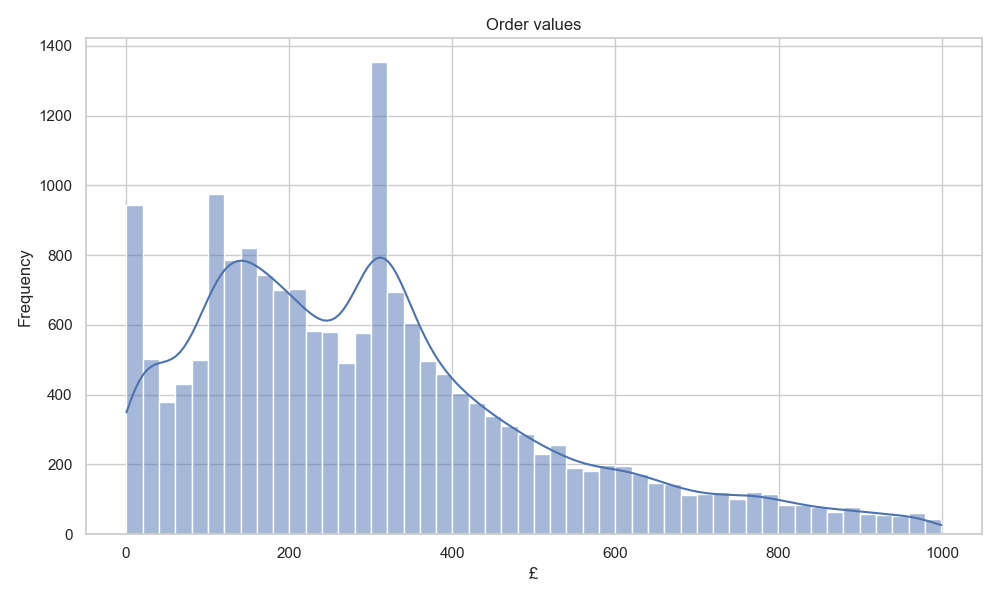
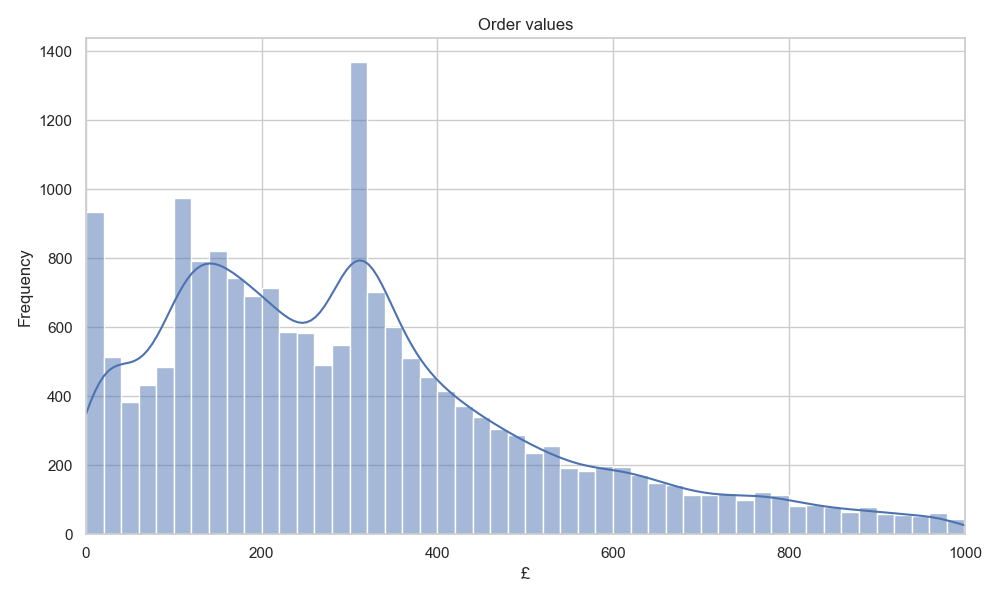
Modified script 'modeling.py'. Generated 'average_sale.png', product_per_order.png' and 'sale_per_client.png' of it. Modivied 'README.md' - added newly created files.

Changed region(s): [[0.031, 0.03, 0.992, 0.93], [0.775, 0.63, 0.806, 0.69], [0.589, 0.63, 0.62, 0.69]]

diff --git a/scripts/modeling.py b/scripts/modeling.py
@@ -1,6 +1,7 @@
 import pandas as pd
 import matplotlib.pyplot as plt
 import seaborn as sns
+import numpy as np
 
 sns.set(style = "whitegrid")
 
@@ -13,17 +14,18 @@ df = pd.read_csv(url, encoding = "ISO-8859-1", dtype = {"InvoiceNo" : str})
 """Data modeling."""
 # Visualisation of average order price - removing outliers.
 df["TotalPrice"] = df["Quantity"] * df["UnitPrice"]
+df["InvoiceDate"] = pd.to_datetime(df["InvoiceDate"], errors = "coerce")
 order_values = df.groupby("InvoiceNo")["TotalPrice"].sum()
 order_values = order_values[order_values < 1000]
-order_values = order_values[order_values > 1]
 # print(order_values.describe())
 
-# plt.figure(figsize = (10,6))
-# sns.histplot(order_values, bins = 50, kde = True)
-# plt.title("Order values")
-# plt.xlabel("£")
-# plt.ylabel("Frequency")
-# plt.tight_layout()
+plt.figure(figsize = (10,6))
+sns.histplot(order_values, bins = 50, kde = True)
+plt.title("Order values")
+plt.xlabel("£")
+plt.ylabel("Frequency")
+plt.xlim(0,1000)
+plt.tight_layout()
 # plt.savefig("https://github.com/Wrobelax/sales_analysis.git/outputs/average_sale.png") # Saving results to file
 
 
@@ -34,7 +36,6 @@ top_clients = client_values.sort_values(ascending = False).head(10)
 customer_total = df.groupby("CustomerID")["TotalPrice"].sum()
 customer_orders = df.groupby("CustomerID")["InvoiceNo"].nunique()
 avg_basket_val = customer_total / customer_orders
-avg_basket_val = avg_basket_val[avg_basket_val > 1]
 avg_basket_val = avg_basket_val[avg_basket_val < 1000]
 
 plt.figure(figsize = (10,6))
@@ -42,6 +43,37 @@ sns.histplot(avg_basket_val, bins = 50, kde = True)
 plt.title("Average basket value per customer")
 plt.xlabel("£")
 plt.ylabel("number of customers")
+plt.xlim(0,1000)
 plt.tight_layout()
-# plt.show()
-# plt.savefig("C:\\Users\\adiw\\PycharmProjects\\Kurs\\sales_analysis\\outputs\\sale_per_client.png") # Saving results to file
+# plt.savefig("https://github.com/Wrobelax/sales_analysis.git/outputs/sale_per_client.png") # Saving results to file
+
+
+# Visualisation of products per order.
+product_per_order = df.groupby("InvoiceNo")["Quantity"].sum()
+product_per_order = product_per_order[product_per_order < 1000]
+
+plt.figure(figsize = (10,6))
+sns.histplot(product_per_order, bins = 50, kde = True)
+plt.title("Number of products per order")
+plt.xlabel("Items")
+plt.ylabel("Frequency")
+plt.xlim(0,1000)
+plt.tight_layout()
+# plt.savefig("https://github.com/Wrobelax/sales_analysis.git/outputs/product_per_order.png") # Saving results to file
+
+
+#Visualisation of sales basing on month and country - limited to top 10.
+df["Month"] = df["InvoiceDate"].dt.to_period("M").astype(str)
+p_table = df.pivot_table(index = "Country", columns = "Month", values = "TotalPrice", aggfunc = "sum").fillna(0)
+top_countries = p_table.sum(axis = 1).sort_values(ascending = False).head(10).index
+p_table = p_table.loc[top_countries]
+
+p_table_log = np.log1p(p_table) # Using log scale to add 1 and avoid log(0)
+
+plt.figure(figsize = (12,6))
+sns.heatmap(p_table, cmap = "YlGnBu", linewidths = 0.5, annot = True, fmt = ".1f")
+plt.title("Sales per Country/Month")
+plt.xlabel("Month")
+plt.ylabel("Country")
+plt.tight_layout()
+plt.show()

diff --git a/README.md b/README.md
@@ -1,3 +1,5 @@
+**Project status**: _In progress_ - data visualisation phase.
+
 This project is a data analysis of a publicly available data from: 
 https://www.kaggle.com/datasets/carrie1/ecommerce-data
 
@@ -5,19 +7,22 @@ https://www.kaggle.com/datasets/carrie1/ecommerce-data
 The project consists of cleaning data, data analysis and data modeling. All data was pushed and managed on Github via Git bash.
 
 
-Structure of the project is as follows:
+**Structure of the project is as follows**:
 
-Folder "data" consists of files:
+_Folder "data" consists of files_:
 - "data.csv" : Input data
 - "cleaned_data.csv" : Data after cleaning. Script used for is in scripts/exploration_cleaning.py
 
 
-Folder "scripts" covers scripts written and used for the project. Some of the code was left commented for reference:
+_Folder "scripts" covers scripts written and used for the project. Some of the code was left commented for reference:_
 - "exploration_cleaning.py" : Script used for creation of the "cleaned_data.csv". Input data used from "data.csv" file. Removed unnecessary data, modified some data types and explored data for potential use.
 - "data_analysis.py" : Script using "cleaned_data.csv" file. Covers data analysis, further exploration and some basic visualisation.
 
 
-Folder "outputs" covers charts resulted of analysis:
+_Folder "outputs" covers charts resulted of analysis:_
 - "orders_per_country.png" : Bar chart covering top 10 countries by order volume. Generated from "data_analysis.py" script.
 - "orders_per_hr.png" : Line chart showing average number of orders per hour. Generated from "data_analysis.py" script.
 - "orders_per_mth.png" : Line chart showing average number of orders per month. Generated from "data_analysis.py" script.
+- "average_sale.png" : Histograph showing average order values.
+- "product_per_order.png" : Histograph showing number of products per order.
+- "sale_per_client.png" : Histograph showing average basket value per client.
